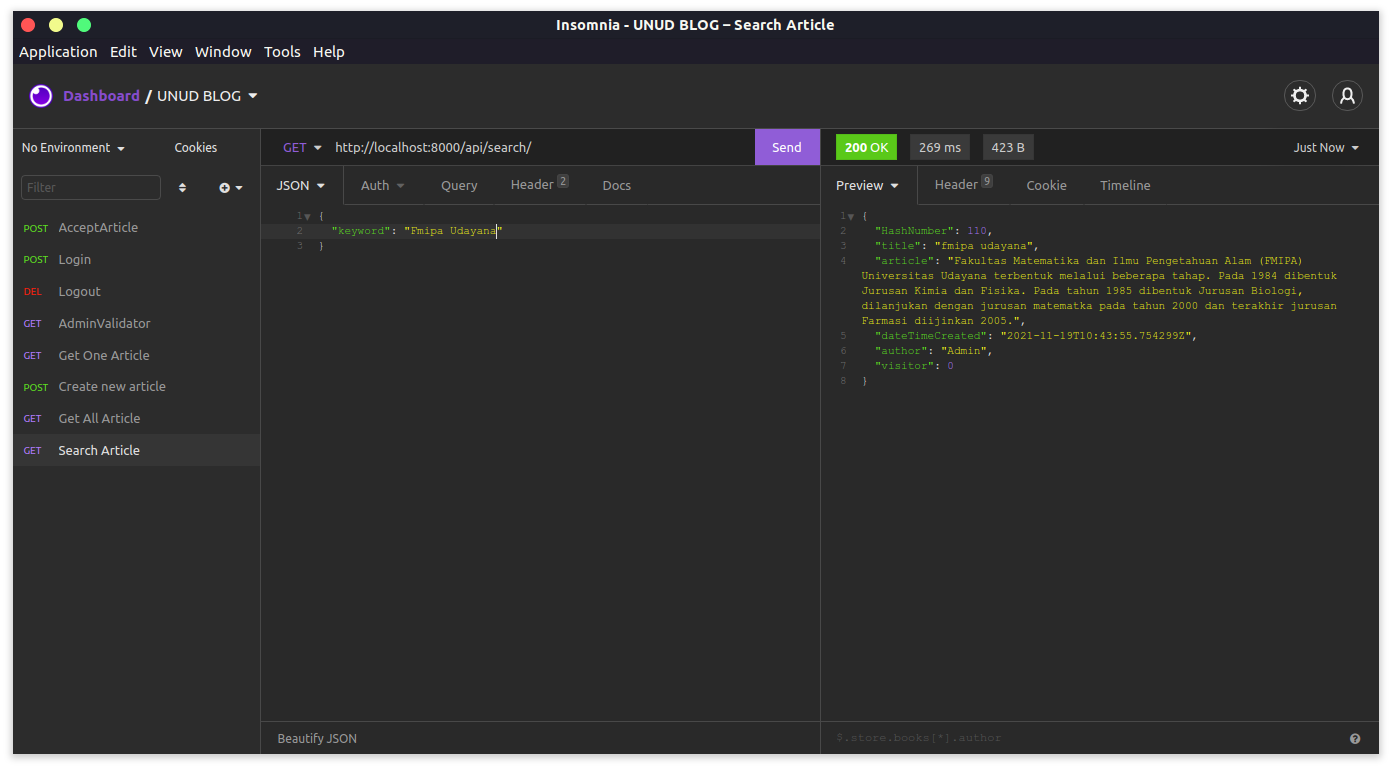
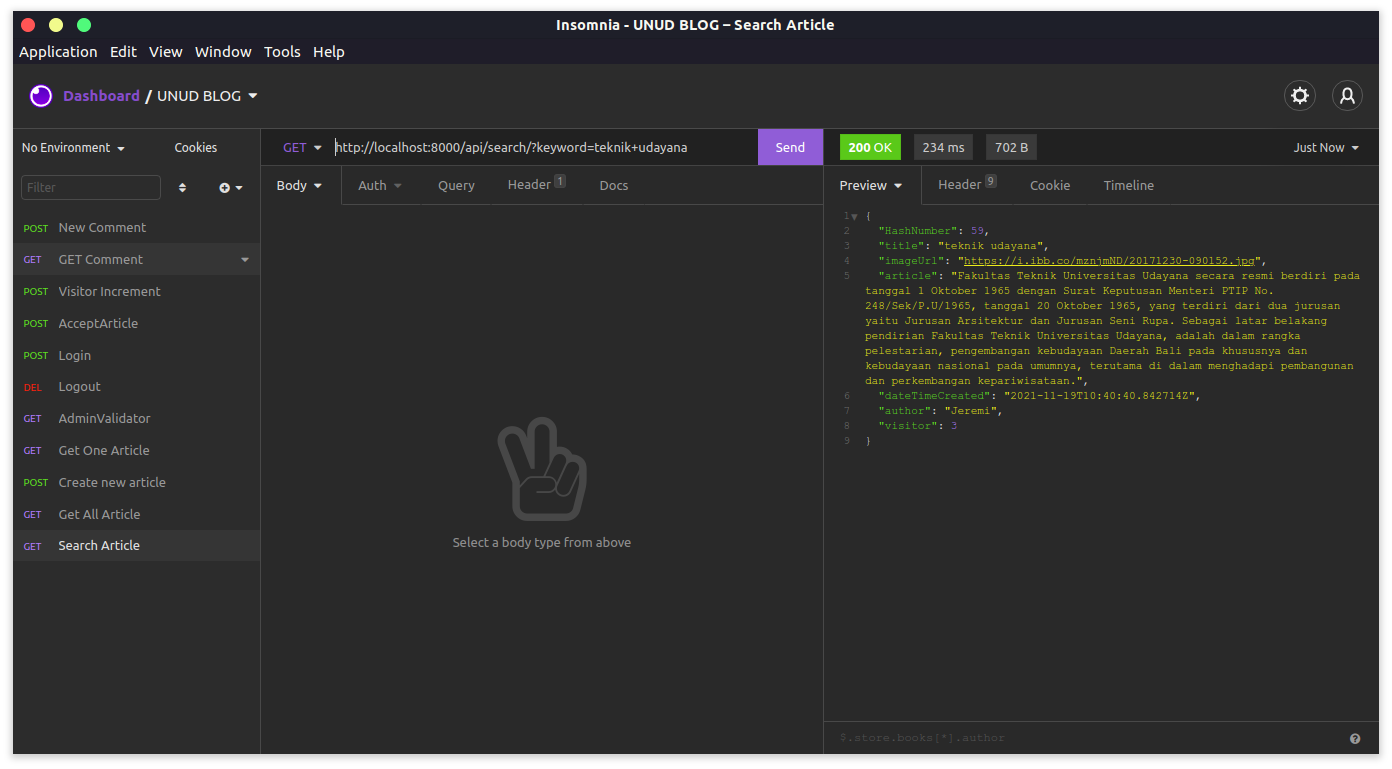
parameter change

diff --git a/PostBlog/viewset_api.py b/PostBlog/viewset_api.py
@@ -112,8 +112,7 @@ def PostBlogOneItem(request, format=None):
     if (str(request.method).lower() == 'get'):
         try:
             try:
-                bodyRequest = json.loads(request.body.decode('utf-8'))
-                HashNumber = int(bodyRequest['HashNumber'])
+                HashNumber = int(request.GET['HashNumber'])
             except:
                 return Response(status=status.HTTP_400_BAD_REQUEST)
             oneContent = BlogMainDatabase.objects.get(HashNumber=HashNumber)
@@ -128,8 +127,8 @@ def PostBlogOneItem(request, format=None):
 def SearchArticle(request):
     if (str(request.method).lower() == 'get'):
         try:
-            bodyRequest = json.loads(request.body.decode('utf-8'))
-            keyword = str(bodyRequest['keyword']).lower()
+            keyword = str(request.GET['keyword']).lower().replace('+', ' ')
+            print(keyword)
         except:
             return Response(status=status.HTTP_400_BAD_REQUEST)
         data = ultilites.cekSearchLinearCollision(keyword=keyword)
@@ -148,7 +147,7 @@ def visitor(request):
         try:
             try:
                 bodyRequest = json.loads(request.body.decode('utf-8'))
-                HashNumber = int(bodyRequest['HashNumber'])
+                HashNumber = int(request.GET['HashNumber'])
             except:
                 return Response(status=status.HTTP_400_BAD_REQUEST)
             Content = BlogMainDatabase.objects.get(HashNumber=HashNumber)

diff --git a/README.md b/README.md
@@ -89,40 +89,40 @@ python manage.py runserver
 
 ##
 <h3 align="center">2. Get One Article [GUEST]</h3>
-<h4 align="center">URL : https://stories-from-unud.herokuapp.com/api/blog-post/one-item/ </h4>
+<h4 align="center">URL : https://stories-from-unud.herokuapp.com/api/blog-post/one-item/?HashNumber=50 </h4>
 
 ```http
   [GET] /api/blog-post/one-item/
 ```
 #### Requirements
-| JSON Body | Type     | Description                       |
-| :-------- | :------- | :-------------------------------- |
-| `HashNumber`      | `string` | **Required** |
+| GET          | Type     | Description                       |
+|:-------------| :------- | :-------------------------------- |
+| `HashNumber` | `string` | **Required** |
 
 | Header | Type     | Description                       |
 | :-------- | :------- | :-------------------------------- |
 | `token`      | `string` | **Required** |
 
 #### Response Example
-![static/img_1.png](static/img_2.png)
+![img.png](static/img_2.png)
 
 ##
 <h3 align="center">3. Search Article [GUEST]</h3>
-<h4 align="center">URL : https://stories-from-unud.herokuapp.com/api/search/ </h4>
+<h4 align="center">URL : https://stories-from-unud.herokuapp.com/api/search/?keyword=teknik+udayana </h4>
 
 ```http
   [GET] /api/search/
 ```
 #### Requirements
-| JSON Body | Type     | Description                       |
-| :-------- | :------- | :-------------------------------- |
-| `keyword`      | `string` | **Required** |
+| GET       | Type     | Description                       |
+|:----------| :------- | :-------------------------------- |
+| `keyword` | `string` | **Required** |
 
 | Header | Type     | Description                       |
 | :-------- | :------- | :-------------------------------- |
 | `token`      | `string` | **Required** |
 #### Example Response
-![static/img_1.png](static/img_1.png)
+![img.png](static/img_1.png)
 
 ##
 <h3 align="center">4. Create New Article [GUEST]</h3>
@@ -151,12 +151,12 @@ python manage.py runserver
 <h4 align="center">URL : https://stories-from-unud.herokuapp.com/api/visitor-increment/ </h4>
 
 ```http
-  [GET] /api/search/
+  [POST] /api/search/
 ```
 #### Requirements
-| JSON Body | Type     | Description                       |
-| :-------- | :------- | :-------------------------------- |
-| `HashNumber`      | `number` | **Required** |
+| JSON         | Type     | Description                       |
+|:-------------| :------- | :-------------------------------- |
+| `HashNumber` | `number` | **Required** |
 
 | Header | Type     | Description                       |
 | :-------- | :------- | :-------------------------------- |
@@ -294,7 +294,7 @@ python manage.py runserver
 <h4 align="center">URL : https://stories-from-unud.herokuapp.com/api/login/ </h4>
 
 ```http
-  [GET] /api/login/
+  [POST] /api/login/
 ```
 #### Requirements 
 | JSON Body | Type     | Description            |
